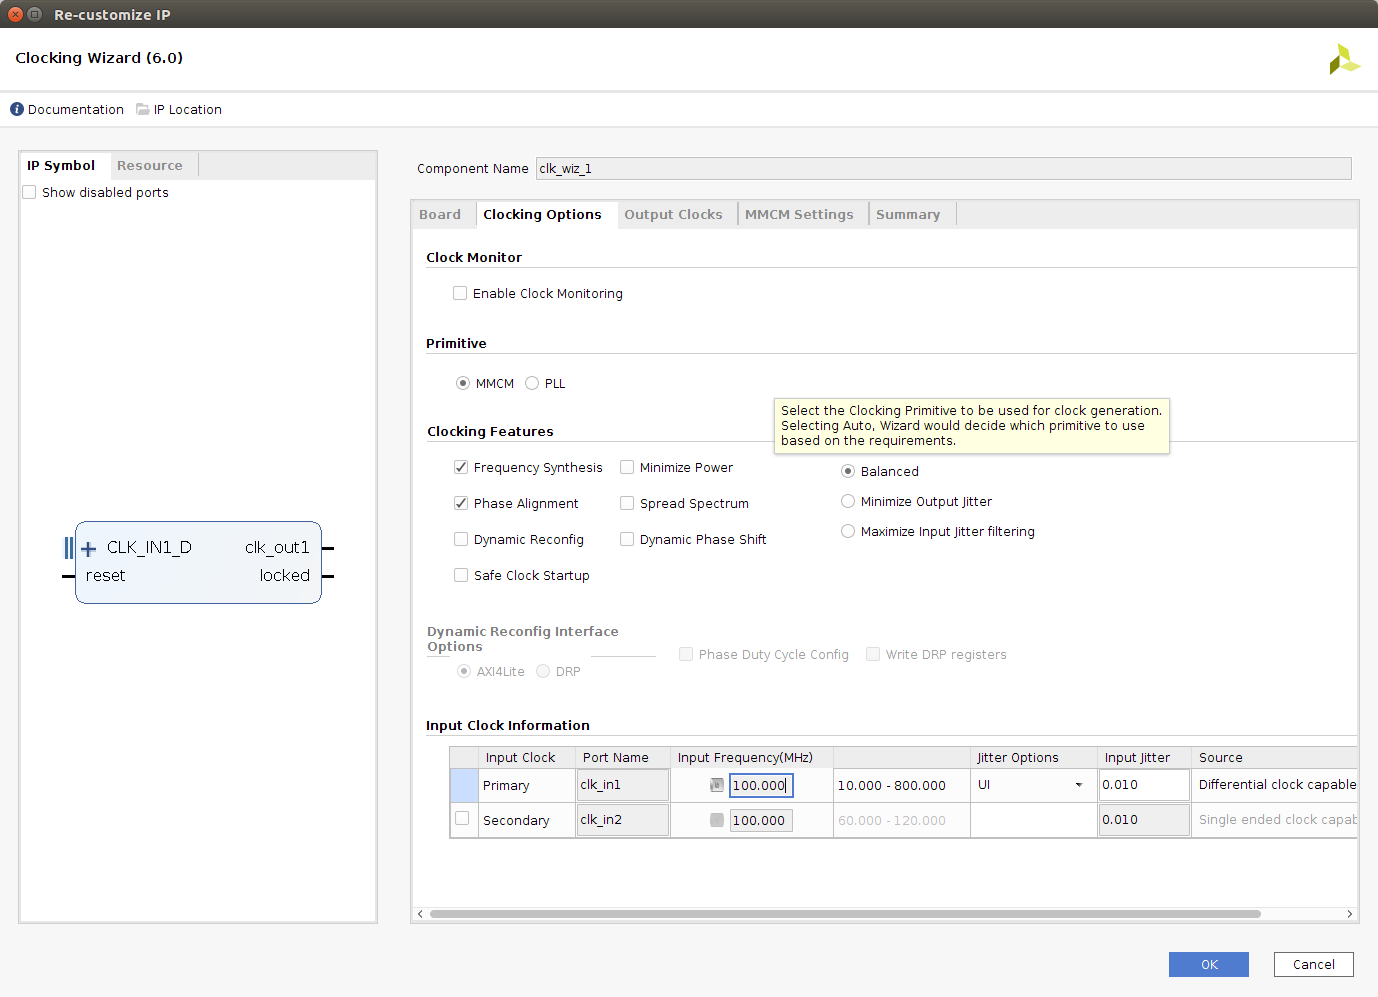
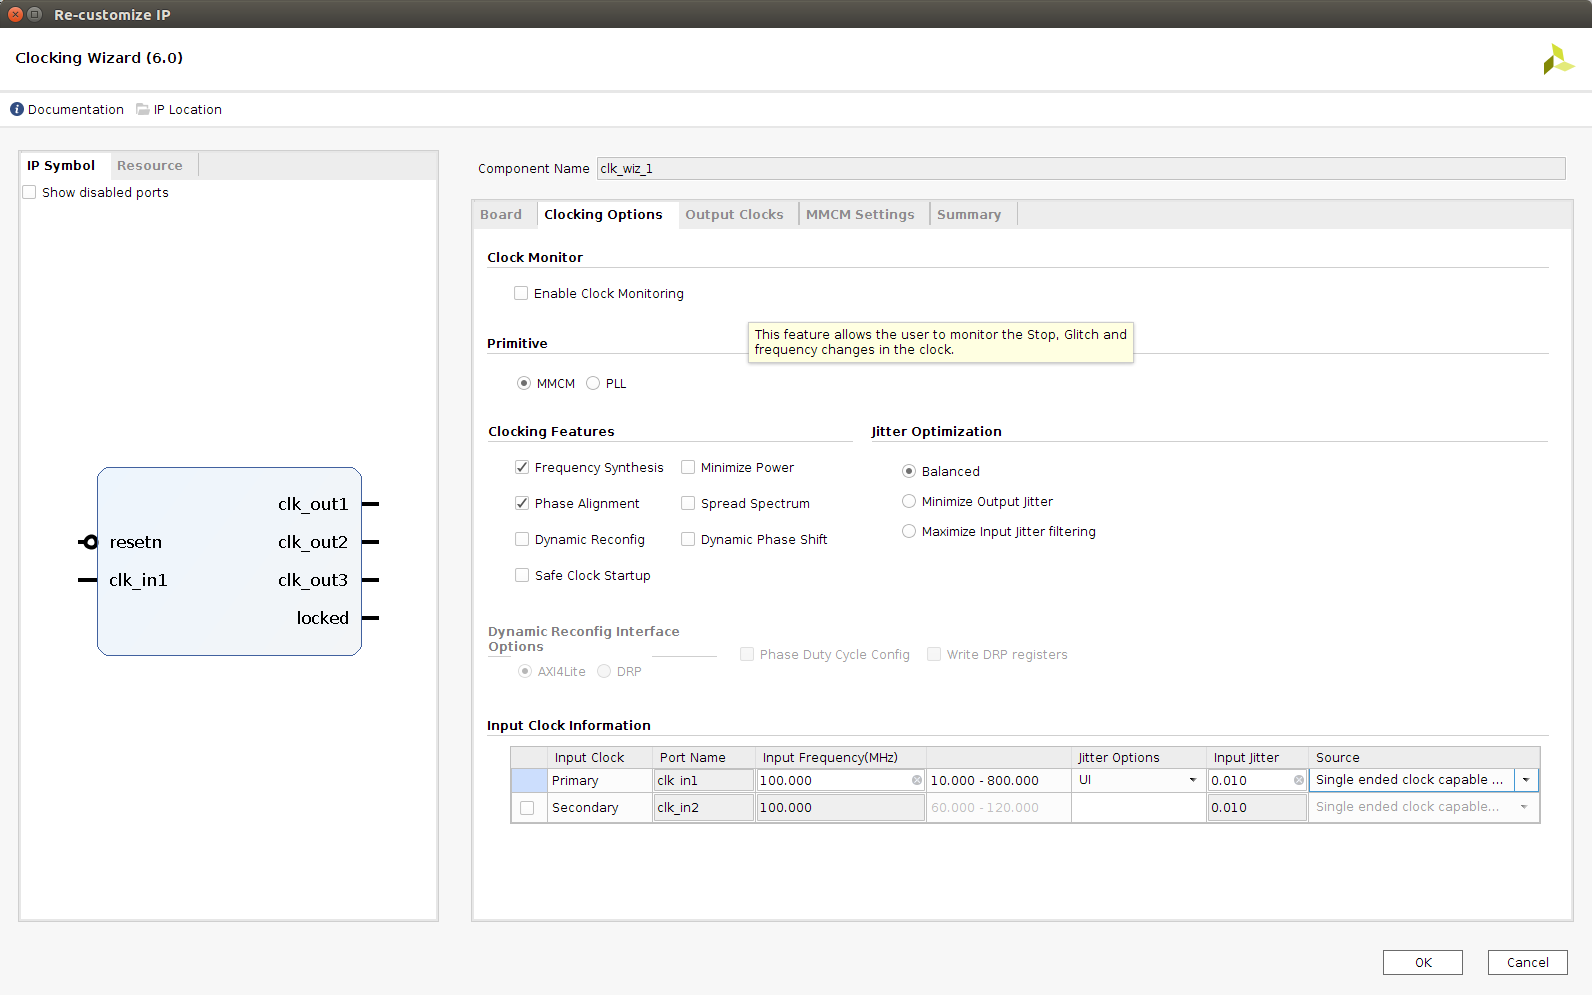
fixed local bug and XDC constraints

diff --git a/content/posts/2018-11-01/index.md b/content/posts/2018-11-01/index.md
@@ -24,13 +24,13 @@ I started following [this]() tutorial from Digilent. It misses some information 
 
 # Create the project
 
-First set up the project. Add this [Vivado TCL script] to your start up scripts. The script will create a project TCL file everytime 'git commit' is invoked. The tcl project file will contain relative paths which allows your project to be stored in a version control system. After Vivado starts click the 'create project' button.
+First set up the project. Add this [Vivado TCL script] to your start up scripts. The script will create a project TCL file every time 'git commit' is invoked. The tcl project file will contain relative paths which allows your project to be stored in a version control system. After Vivado starts click the 'create project' button.
 
 ##Initializing version control (git)
 
 After completing the wizard, open the tcl tab and type the following commands:
 
-  1. goto your project dir: cd /home/<username>/Xilinx/projects/basic\_microblaze/
+  1. go to your project dir: cd /home/<username>/Xilinx/projects/basic\_microblaze/
   2. create a src and blockdesign dir. The src directory will contain all the files that are under version control: exec mkdir -p src/blockdesign
   3. create a directory of the vhdl files: exec mkdir -p src/design
   4. initialize the repository: git init
@@ -46,7 +46,7 @@ git add src/design/design.xdc
 
 First step is to specify the architecture of the synthesized FPGA hardware blocks. Pay careful attention to configuration of the clock wizard, the MIG7 memory generator and polarity of reset signals. 
 
-Add the blockdesign in the  project folder: /home/<username>/Xilinx/projects/basic\_microblaze/src/blockdesign
+Add the block design in the  project folder: /home/<username>/Xilinx/projects/basic\_microblaze/src/blockdesign
 
 
 ##Microblaze
@@ -54,13 +54,13 @@ Add the blockdesign in the  project folder: /home/<username>/Xilinx/projects/bas
 Click on the '+' button and search for "Microblaze". After adding the Microblaze processor click on it to customize it:
   1. wizard page 1: enable the Debug Module (MDM) and enable caches.
   2. wizard page 2: next
-  3. wizard page 3: select 16 kB intruction cache, and a 16 kB data cache.
+  3. wizard page 3: select 16 kB instruction cache, and a 16 kB data cache.
   4. wizard page 4: next
   5. wizard page 5: Enable AXI data interface
 
-A green box will appear containg a link to "Run block automation". Clicking this Vivado will create additional IP blocks to support the Microblaze. When clicking "Run block automation" a settings window will open:
+A green box will appear containing a link to "Run block automation". Clicking this Vivado will create additional IP blocks to support the Microblaze. When clicking "Run block automation" a settings window will open:
   1. Choose local memory 16 KB
-  2. Choose cache config: 16 KB
+  2. Choose cache configuration: 16 KB
   3. Choose Debug module Debug Only
   4. Select enable Peripheral AXI Port
   5. Select enable interrupt controller
@@ -73,12 +73,14 @@ The block design will now contain a Microblaze, Local memory, Processor System R
 ##Clocking wizard
 
 Double click the "clocking wizard" to customize it:
-  1. Add two extra output clocks besides the existing 100 MHz clock: 200 MHz and 50 MHz. 
-  2. Also on the XXX page choose the reset type: active low
-  3. Finish the wizard and right click the XXX port. Select ake inputs external. A new external input will be created. Rename it to "CLK100MHZ"
+  1. On the clock options page select "single ended clock capability" for the row "primary".
+  2. On the output clocks page:
+    2.1. Add two extra output clocks besides the existing 100 MHz clock: 200 MHz and 50 MHz. 
+    2.2 Also on the TODO page choose the reset type: active low
+  3. Finish the wizard and right click the "clk\_in1" port. Select ake inputs external. A new external input will be created. Rename it to "CLK100MHZ"
   3. Right click the "resetn" port. Select make inputs external. A new external input will be created. Rename it to "reset\_n"
-  4. Connect the "reset\_n" port to the  "ext\_reset\_n" port of the Processir Stsrem Reset block.
-These clocks are generated using the FPGA's built in MMCM XXX which can be thought of as a kind of PLL. The 200 MHz will be used for the DDR2 controller, the 50 MHz for the Quad SPI Flash and external Ethernet LANXXX chip. The reset button in on the Nexys4 DDR will output a '0' when pressed. To use this button for resetting the various IP blocks every reset input port has to be configured as "active low". Renaming the ports is required to match the physical pin constraints in the XDC file. Add the following rows to the XDC file:
+  4. Connect the "reset\_n" port to the  "ext\_reset\_n" port of the Processor System Reset block.
+These clocks are generated using the FPGA's built in MMCM TODO which can be thought of as a kind of PLL. The 200 MHz will be used for the DDR2 controller, the 50 MHz for the Quad SPI Flash and external Ethernet LANTODO chip. The reset button in on the Nexys4 DDR will output a '0' when pressed. To use this button for resetting the various IP blocks every reset input port has to be configured as "active low". Renaming the ports is required to match the physical pin constraints in the XDC file. Add the following rows to the XDC file:
 
   set\_property -dict {PACKAGE\_PIN E3 IOSTANDARD LVCMOS33} [get\_ports CLK100MHZ]
   create\_clock -period 10.000 -name sys\_clk\_pin -waveform {0.000 5.000} -add [get\_ports CLK100MHZ]
@@ -166,11 +168,11 @@ Connect the block:
   1. Connect the "M03\_AXI" of the Axi Smartconnect to the "S\_AXI" input.
   2. Connect the Clockin Wizard "clk\_out1" (100Mhz clock) to the "s\_axi\_aclk" pin.
   3. Connect the Processor System Reset output port "peripheral\_aresetn" to the "s\_axi\_aresetn" input.
-  4. Connect the interrupt XXX pin to "in0" of the Concat block (which is connected to the interrupt controller).
+  4. Connect the interrupt TODO pin to "in0" of the Concat block (which is connected to the interrupt controller).
 
 ##AXI Ethernetlite
 
-The Ethernetlite component presents a memory mapped ethernet device to the Microblaze. In the C user application running on the Microblaze the LwIP stack will be used to connect to the Internet.  The Ethernetlite component presents a MII interface. The Nexys4 DDR contains a LANXXX chip which already implements part of this interface. That chip presents a socalled reduced MII interface. Xilinx has a MII\_to\_RMII IP block available to convert. Add both the "AXI Ethernetlite" and "Ethernet PHY MII to Reduced MII" to the block design.
+The Ethernetlite component presents a memory mapped ethernet device to the Microblaze. In the C user application running on the Microblaze the LwIP stack will be used to connect to the Internet.  The Ethernetlite component presents a MII interface. The Nexys4 DDR contains a LANTODO chip which already implements part of this interface. That chip presents a socalled reduced MII interface. Xilinx has a MII\_to\_RMII IP block available to convert. Add both the "AXI Ethernetlite" and "Ethernet PHY MII to Reduced MII" to the block design.
 
 Configure the AXI Ethernetlite block:
   1. Enable Internal Loopback
@@ -183,7 +185,7 @@ Connect the blocks:
   1. Connect the "M04\_AXI" of the Axi Smartconnect to the "S\_AXI" input.
   2. Connect the Clockin Wizard "clk\_out1" (100Mhz clock) to the "s\_axi\_aclk" pin.
   3. Connect the Processor System Reset output port "peripheral\_aresetn" to the "s\_axi\_aresetn" input.
-  4. Connect the interrupt XXX pin to "in1" of the Concat block (which is connected to the interrupt controller).
+  4. Connect the interrupt TODO pin to "in1" of the Concat block (which is connected to the interrupt controller).
   5. Connect the Clockin Wizard "clk\_out3" (50Mhz clock) to the "ref\_clk" pin.
   6. Connect the Clockin Wizard "clk\_out3" (50Mhz clock) to the "ETH\_CLK" external pin.
   7. Connect the Ethernetlite port "MII" to the "MII" port of the MII\_to\_RMII block.
@@ -195,24 +197,24 @@ Connect the blocks:
      9.3 Collapse the "MII" port.
   10. Add the following contraints to the XDC file:
 `
-        set\_property -dict {PACKAGE\_PIN C9 IOSTANDARD LVCMOS33} [get\_ports mdio\_mdc]
-        set\_property -dict {PACKAGE\_PIN A9 IOSTANDARD LVCMOS33} [get\_ports mdio\_mdio\_io]
-        set\_property -dict {PACKAGE\_PIN B3 IOSTANDARD LVCMOS33} [get\_ports eth\_rst_n]
-        set\_property -dict {PACKAGE\_PIN D9 IOSTANDARD LVCMOS33} [get\_ports rmii_phy_m\_crs\_dv]
-        set\_property -dict {PACKAGE\_PIN C10 IOSTANDARD LVCMOS33} [get\_ports rmii_phy_m\_rx\_er]
-        set\_property -dict {PACKAGE\_PIN C11 IOSTANDARD LVCMOS33} [get\_ports {rmii_phy_m\_rxd[0]}]
-        set\_property -dict {PACKAGE\_PIN D10 IOSTANDARD LVCMOS33} [get\_ports {rmii_phy_m\_rxd[1]}]
-        set\_property -dict {PACKAGE\_PIN B9 IOSTANDARD LVCMOS33} [get\_ports rmii_phy_m\_tx\_en]
-        set\_property -dict {PACKAGE\_PIN A10 IOSTANDARD LVCMOS33} [get\_ports {rmii_phy_m\_txd[0]}]
-        set\_property -dict {PACKAGE\_PIN A8 IOSTANDARD LVCMOS33} [get\_ports {rmii_phy_m\_txd[1]}]
-        set\_property -dict {PACKAGE\_PIN D5 IOSTANDARD LVCMOS33} [get\_ports eth\_clk]
+        set\_property -dict {PACKAGE\_PIN C9 IOSTANDARD LVCMOS33} [get\_ports MDIO\_mdc]
+        set\_property -dict {PACKAGE\_PIN A9 IOSTANDARD LVCMOS33} [get\_ports MDIO\_mdio\_io]
+        set\_property -dict {PACKAGE\_PIN B3 IOSTANDARD LVCMOS33} [get\_ports ETH\_RST_N]
+        set\_property -dict {PACKAGE\_PIN D9 IOSTANDARD LVCMOS33} [get\_ports RMII\_PHY_M\_crs\_dv]
+        set\_property -dict {PACKAGE\_PIN C10 IOSTANDARD LVCMOS33} [get\_ports RMII\_PHY_M\_rx\_er]
+        set\_property -dict {PACKAGE\_PIN C11 IOSTANDARD LVCMOS33} [get\_ports {RMII\_PHY_M\_rxd[0]}]
+        set\_property -dict {PACKAGE\_PIN D10 IOSTANDARD LVCMOS33} [get\_ports {RMII\_PHY_M\_rxd[1]}]
+        set\_property -dict {PACKAGE\_PIN B9 IOSTANDARD LVCMOS33} [get\_ports RMII\_PHY\_M\_tx\_en]
+        set\_property -dict {PACKAGE\_PIN A10 IOSTANDARD LVCMOS33} [get\_ports {RMII\_PHY\_M\_txd[0]}]
+        set\_property -dict {PACKAGE\_PIN A8 IOSTANDARD LVCMOS33} [get\_ports {RMII\_PHY\_M\_txd[1]}]
+        set\_property -dict {PACKAGE\_PIN D5 IOSTANDARD LVCMOS33} [get\_ports ETH\_CLK]
         #set\_property -dict { PACKAGE\_PIN B8    IOSTANDARD LVCMOS33 } [get\_ports { ETH\_INTN }]; #IO\_L12P\_T1\_MRCC\_16 Sch=eth\_intn
 
 In most tutorials the 50MHz clock is used to drive the LANxxx chip and the MII\_to\_RMII block. According to some recomendations the  MII\_to\_RMII block introduces a clock delay. Ideally the clocking wizard should be used to create two 50 MHz clocks, one with a phase delay. The undelayed clock is connected to the MII\_to\_RMII block. The delayed clock is connected to the LANxxx chip. Furthermore there is a discussion if the LANxxx can be clocked used a synthesized 50MHz clock as there the clock jitter would be outside the LANxxx requirements.  
 
 ##AXI Quad SPI
 
-The Quad SPI component is connected to the external Quad SPI Flash (A Spansion XXX). It allowes the FPGA to retrieve its bit stream from the Flash chip. Furthermore the Microblaze will be able to boot the user application from flash. Add a Quad SPI IP block and configure it:
+The Quad SPI component is connected to the external Quad SPI Flash (A Spansion TODO). It allowes the FPGA to retrieve its bit stream from the Flash chip. Furthermore the Microblaze will be able to boot the user application from flash. Add a Quad SPI IP block and configure it:
 
   1. Select mode: quad
   2. Select the Spansion slave device.
@@ -235,56 +237,50 @@ Connec the Quad SPI block as follows:
 
 ##AXI DDR2 controller
 
-The Memory Interface Generator (MIG7) is used to create a DDR2 controller for XXX RAM chip on the Nexys4 DDR board. The Microblaze will use a bootloader to copy the user application from Flash to DDR2 Ram. The DDR2 controller requires very precise timing parameters. These are specified in the [DDR2 RAM tutorial](). Add a MIG7 component and double click to configure:
+The Memory Interface Generator (MIG7) is used to create a DDR2 controller for TODO RAM chip on the Nexys4 DDR board. The Microblaze will use a BRAM based bootloader to copy the user application from Flash to DDR2 Ram. The DDR2 controller requires very precise timing parameters. These are specified in the [DDR2 RAM tutorial](). Add a MIG7 component and double click to configure:
 
-1. Next
-2. Next
-3. Select Pin compat FPGA xc7a100ti-csg324
-4. Controller type: DDR2
-5. Controller options:
-  5.1. Clock period 3077
-  5.2. Memory part MT47H64M16HR-25E
-  5.3. Datawidth 16
-  5.4. Ordering Normal
-6. AXI Parameter
-  1. Data width: 128, narrow burst support 1
-7. Memory Options - Clock 0 will be set 100Mhz later on, RTT-ODT: 50 ohms
-8. FPGA options  
-System clock: no buffer
-Reference clock: no buffer
-System reset pol: act low
-Internal vref
-9. Extended FPGA options: Internal termination impedance 50 omhs
-10. IO Planning: Fixed pinout
-11. Pin selections, type pin numbers, click validate. do not scroll!, als refer to xdc below
-12. System signals: no connect
-13. summary
-14. simulation options, accept, pcb information, next, design notes, generate
+  1. At this introductin page click Next.
+  2. Again click next.
+  3. Select the pin compatible FPGA. The Nexys4 DDR uses the xc7a100ti-csg324.
+  4. Choose DDR2 as controller type.
+  5. On the "Controller options" page select:
+    5.1. Clock period: 3077
+    5.2. Memory part: MT47H64M16HR-25E
+    5.3. Datawidth: 16 bits
+    5.4. Ordering: Normal
+  6. On the "AXI Parameter" page configure the AXI interface:
+    6.1. Data width: 128
+    6.2. Enable narrow burst support (set to one).
+  7. On the "Memory Options" page choose:
+     7.1. Set the "input clock period" to 100 MHz. If this setting is missing chances are that you run across a bug in the Memory Interface Generator (MIG7). When running Vivado 2018.2 from Ubuntu use the right locale settings. Restart Vivado from the terminal and first execute: export LC_NUMERIC=en_US.utf8
+     7.2.  RTT-ODT to be 50 ohms. Note that the generated clock section is empty. This is updated automatically during validation TODO of the design to include a 100 MHz based upon incomming clock.
+  8. On the "FPGA options" page:
+    8.1. select "no buffer" for both system clock and reference clock. "no buffer" means that we can connect clocks generated by the clocking wizard.
+    8.2. Set the system reset polarity to active low.
+    8.3. Enable usage of "Internal vref".
+  9. On the "Extended FPGA options" choose the Internal termination impedance to be 50 omhs.
+  10. On the "IO Planning" page select fixed pinout as we want to connect the controller to the external RAM chip.
+  11. On the "Pin selection" page, type the pin numbers, next click validate. Refer to the XDC constraints below for the actual pin values. The pin selection page does not fit on one page, and you have to scroll to get to all the pins. Becarefull when scrolling: scrolling when the mouse is above a pin selection drop down changes the pin!
+  12. On the "System signals" do not select anything.
+  13. Verify that the summary report is similar to the screenshot.
+  14. The last pages "simulation options:": accept, "pcb information": next, "design notes": generate.
 
-Add another "Processor System Reset", rename FPGA_sys_reset
+The DDR RAM controller will generate its own clock on the "ui\_clk" pin. The DDR RAM controller needs its own system reset logic as part of this clock domain. Add another "Processor System Reset", rename it to FPGA\_sys\_reset".
 
-Connect
-M06_AXI -> S_AXI
-reset_n -> sys_rst
-clk_out1 -> sys_clk_i (100mhz)
-clk_out2 -> clk_ref_i (200mhz)
-DDR2 make external, rename DDR2
-ui_clk_sync_rst -> ext_reset_in
-ui_clk -> slowest_sync_clk
-ui_clk -> aclk1 (smartconnect)
-mmcm_locked -> dcm_locked
-int_calib_complete -> not con
-peripheral_aresetn -> aresetn
+Connect the DDR RAM controller:
+  1. Connect the AXI SmartConnect pin "M06\AXI" to the S\_AXI pin.
+  2. Connect the external "reset\_n" pin to the "sys\_rst" pin of the FPGA\_sys\_reset block.
+  3. Connect the clocking wizard "clk\_out1" (100 MHz) clock to "sys\_clk\_i" of the Ram controller.
+  4. Connect the clocking wizard "clk\_out2" (200 MHz) clock to "clk\_ref\_i" of the RAM controller. 
+  5. Right click the DDR controller "DDR2" pin and make it external. Rename the external pin to "DDR2".
+  6. Connect the DDR controller "ui\_clk\_sync\_rst" to the "ext\_reset\_in" of the FPGA\_sys\_reset block.
+  7. Connect the DDR controller "ui\_clk" clock to the "slowest\_sync\_clk" of the FPGA\_sys\_reset block.
+  8. Connect this clock also to the "aclk1" pin of the AXI Smartconnect.
+  9. Connect the "mmcm\_locked" of the DDR Controller to the  "dcm\_locked" pin of the FPGA\_sys\_reset block.
+  10. The DDR Controller pin "int\_calib\_complete" is left unconnected.
+  11. Connect the FPGA\_sys\_reset pin "peripheral\_aresetn" to the DDR controller "aresetn" pin TODO. 
 
-
-
-Now add a second Processor System Reset. This is required because the Processor System Reset will run in the DDR2 ui\_clock domain. Connect the blocks.
-  1.
-  2.
-
-
-Note that 
-In some articles it is specified that one should not use a clocking wizard generated clock (would have too much jitter). In spite of this advice I have use the 200 MHz output of the clock wizard. The following constraints were obtained from an old UCF file for the Nexys4 DDR.
+In some articles it is specified that one should not use a clocking wizard generated clock connected to the DDR controller as it would have too much jitter. In spite of this advice I have used the 200 MHz output of the clock wizard. The following pin constraints are required connecting the DDR RAM chip.
 
         set\_property -dict {PACKAGE\_PIN R7 IOSTANDARD SSTL18\_II} [get\_ports {DDR2\_dq[0]}]
         set\_property -dict {PACKAGE\_PIN V6 IOSTANDARD SSTL18\_II} [get\_ports {DDR2\_dq[1]}]
@@ -344,14 +340,9 @@ In some articles it is specified that one should not use a clocking wizard gener
 
 ##Address map
 
-The connected AXI devices are either memory type devices or memory mapped IO devices. We have to specify the Microblaze memory map so that the AXI devices can be accessed by the bootloader and user application.
-
-Click the address editor tab.
-
-Right click Data area, unmapped slaves,  ethernetlite,gpio, uartlite, timer, quad spi, mig7 -> assign address
-for instructions keep only local memory and mig7
-
-
+The connected AXI devices are either memory type devices or memory mapped IO devices. We have to specify the Microblaze memory map so that the AXI devices can be accessed by the bootloader and user application. Click the address editor tab.
+  1. Right click Data area, unmapped slaves. For each of the following devices select assign address: ethernetlite, gpio, uartlite, timer, quad spi, mig7.
+  2. The  "Instructions" mapped devices should only contain the local memory and the mig7 device. Select any other mapped devices and click "exclude". TODO
 
 #Commit the block design to version control
 
@@ -360,6 +351,11 @@ Store the current version of the  block design inside version control:
   2. git commit -am "Half way through block design"
 
 #Synthesize
+
+Right click "mb_design" in the sources pane. Click "generate HDL wrapper", select "Let Vivado manage wrapper..."
+
+Click "Run synthesis" in the "Flow Navigator".
+Click "Run implementation" ....
 
 #XDC pin constraints
 
@@ -378,7 +374,7 @@ Later on the FPGA bit stream will be flashed on the Quad SPI Flash device. In or
 
 set\_property BITSTREAM.GENERAL.COMPRESS TRUE [current\_design]
 
-set other bit stream config XXX
+set other bit stream config TODO
 
 Run the bit stream generator.
 
@@ -400,7 +396,7 @@ to
 
 This will speedup things while still giving some insight in the bootloading progress. The bootloader needs to know the address in SPI flash where the user application resides. Set
 
-XXX to XXX
+TODO to TODO
 
 
 ## Programming the FPGA
@@ -416,7 +412,7 @@ Run the program FPGA command from the Xilinx menu. In the serial terminal you sh
 
 ##Flashimg the FPGA bitstream.
 
-Run the "program FPGA" command from the Xilinx menu. Next run Program Flash from the Xilinx menu. Select the flash memory part: XXX and address 0x0. Select download.bit from XXX. After flashing you can restart the Nexys4 DDR by pressing the "prog" button. Again the bootloader should start and fail. Note that even though the FPGA load its bit file from flash it can still be programmed as usual using JTAG.
+Run the "program FPGA" command from the Xilinx menu. Next run Program Flash from the Xilinx menu. Select the flash memory part: TODO and address 0x0. Select download.bit from TODO. After flashing you can restart the Nexys4 DDR by pressing the "prog" button. Again the bootloader should start and fail. Note that even though the FPGA load its bit file from flash it can still be programmed as usual using JTAG.
 
 
 ## Create user application
@@ -425,7 +421,7 @@ Create a new project. Select the "Peripheral test template".
 
 ## Flashing the user application
 
-Run the "Flash XXX" command. Select generate SREC, select the user application elf file.  Select the flash memory part XXX and address XXX (should be the same as the address set in the bootloader).
+Run the "Flash TODO" command. Select generate SREC, select the user application elf file.  Select the flash memory part TODO and address TODO (should be the same as the address set in the bootloader).
 
 Reset the Nexys4 DDR by pressing the "prog" button. The bootloader should start loading and eventually run the user application. The user application will print various test messages. The RGB LED connected to the GPIO should react to one of the tests.
 
@@ -446,7 +442,7 @@ The Digilent xdc file for the Nexys4 DDR does not contain the pinout of the DDR2
 
   1. Launch the SDK
   2. Create a project with template "SPI SREC Bootloader"
-    2.1. Set the XXX address
+    2.1. Set the TODO address
     2.2. Set the ....
   3. 
 
